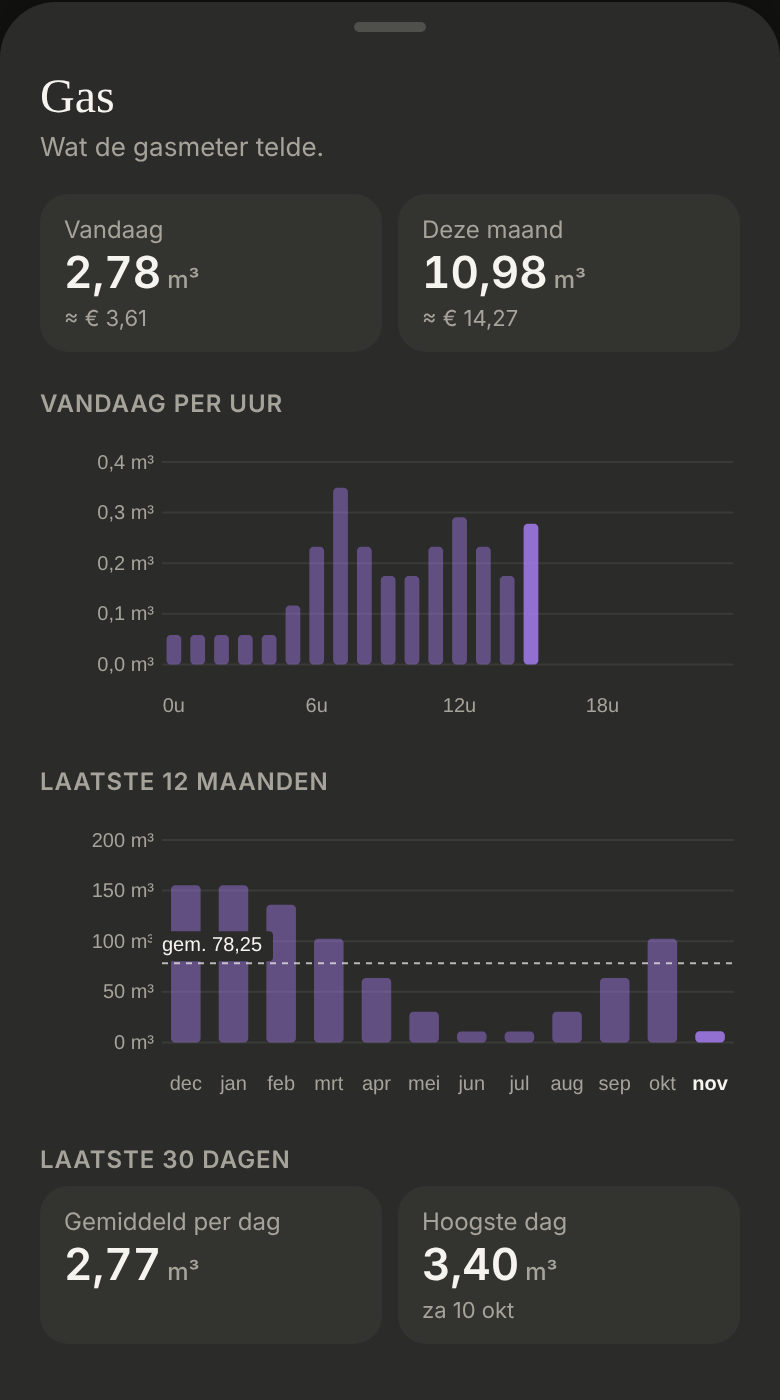
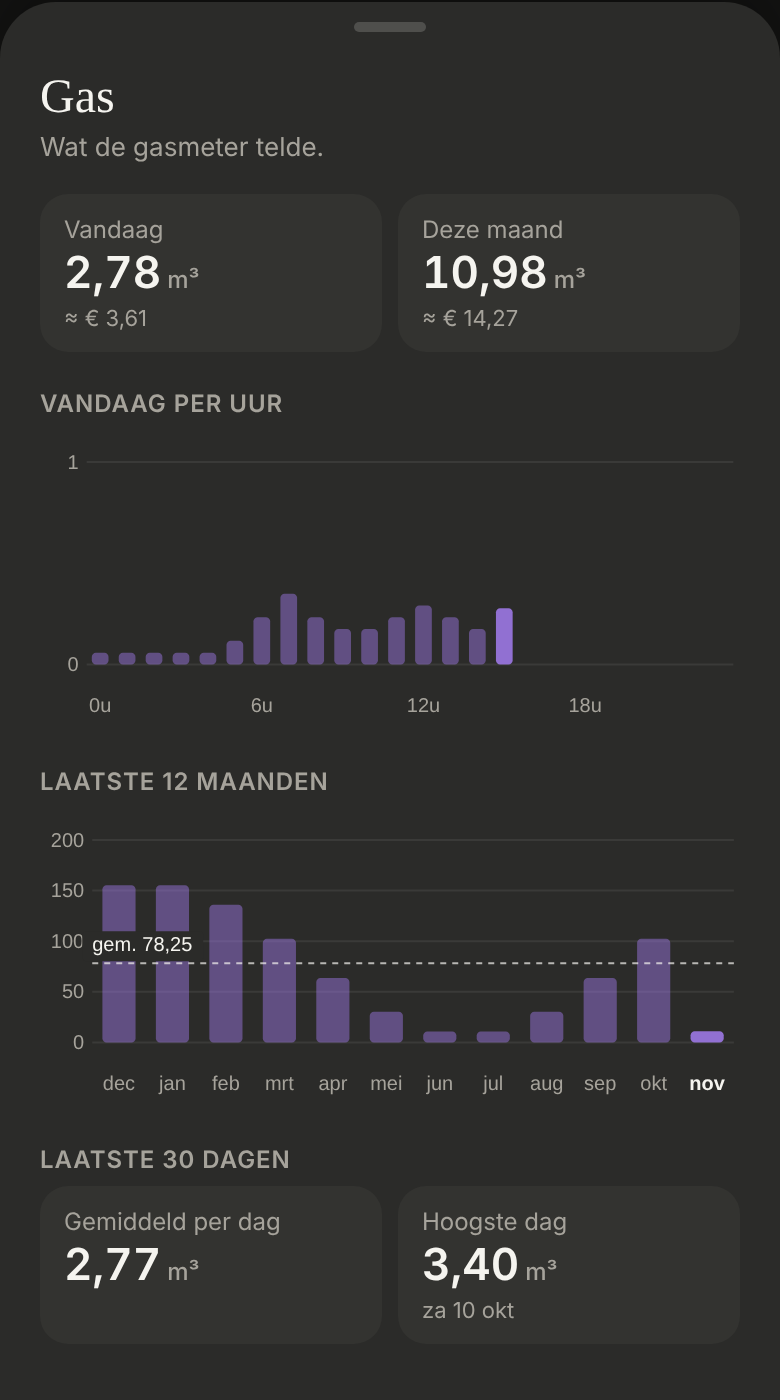
Energie: the sheets' y-axes in whole numbers, without the unit
The owner's choice: the sheet already says the unit, and decimals only
cluttered the axis. The steps are whole numbers (1, 2, 5 or 10 × a power
of ten), also in the Capaciteitstarief sheet.

Claude-Session: https://claude.ai/code/session_01KM6EwXvT22zbGn1J5Xot1E

diff --git a/src/components/energy/InfoSheet.tsx b/src/components/energy/InfoSheet.tsx
@@ -64,8 +64,6 @@ interface InfoBarChartProps {
   nowIndex?: number;
   /** A dashed line with its label, e.g. "gem. 9,59". */
   average?: { value: number; label: string };
-  /** On the y-axis's labels, e.g. "kWh". */
-  unit: string;
 }
 
 const CHART_HEIGHT = 150;
@@ -78,7 +76,7 @@ const MUTED_TEXT_COLOR = '#a6a39b';
 const SHEET_COLOR = '#2b2b29';
 
 /** A bar per hour, day or month, the one for now in the full colour and its label white. */
-export function InfoBarChart({ labels, values, color, nowIndex = values.length - 1, average, unit }: InfoBarChartProps) {
+export function InfoBarChart({ labels, values, color, nowIndex = values.length - 1, average }: InfoBarChartProps) {
   const barColors = values.map((_value, barIndex) => (barIndex === nowIndex ? color : `${color}${EARLIER_BAR_OPACITY_HEX}`));
   const labelColors = labels.map((_label, barIndex) => (barIndex === nowIndex ? TEXT_COLOR : MUTED_TEXT_COLOR));
   const knownValues = values.filter((value) => value !== null);
@@ -107,7 +105,7 @@ export function InfoBarChart({ labels, values, color, nowIndex = values.length -
       axisTicks: { show: false },
       labels: { rotate: 0, hideOverlappingLabels: false, style: { colors: labelColors, fontSize: '10px' } },
     },
-    yaxis: axisOptions(axis, unit),
+    yaxis: axisOptions(axis),
     annotations: {
       yaxis: average
         ? [
@@ -140,37 +138,34 @@ export function InfoBarChart({ labels, values, color, nowIndex = values.length -
 export interface RoundAxis {
   max: number;
   steps: number;
-  decimals: number;
 }
 
 /**
- * A y-axis from 0 to just above `highestValue`, in about 4 round steps (1, 2,
- * 2,5 or 5 times a power of ten), with as many decimals as the step needs.
+ * A y-axis from 0 to just above `highestValue`, in about 4 round steps of
+ * whole numbers (1, 2, 5 or 10 times a power of ten), so the labels need no
+ * decimals.
  */
-export function roundAxis(highestValue: number, decimals?: number): RoundAxis {
-  const roughStep = (highestValue || 1) / AXIS_STEPS;
+export function roundAxis(highestValue: number): RoundAxis {
+  const roughStep = Math.max(1, (highestValue || 1) / AXIS_STEPS);
   const powerOfTen = 10 ** Math.floor(Math.log10(roughStep));
-  const roundStep = [1, 2, 2.5, 5, 10].map((factor) => factor * powerOfTen).find((step) => step >= roughStep) ?? 10 * powerOfTen;
-  const steps = Math.ceil((highestValue || 1) / roundStep);
-  const decimalsOfStep = Math.max(0, -Math.floor(Math.log10(roundStep) + 1e-9) + (roundStep / powerOfTen === 2.5 ? 1 : 0));
+  const roundStep = [1, 2, 5, 10].map((factor) => factor * powerOfTen).find((step) => step >= roughStep) ?? 10 * powerOfTen;
+  const steps = Math.max(1, Math.ceil(highestValue / roundStep));
 
-  return { max: steps * roundStep, steps, decimals: decimals ?? decimalsOfStep };
+  return { max: steps * roundStep, steps };
 }
 
-/** ApexCharts' y-axis for a round axis: muted labels like "2,5 kWh" on the left. */
-export function axisOptions(axis: RoundAxis, unit: string): ApexOptions['yaxis'] {
+/** ApexCharts' y-axis for a round axis: muted whole numbers on the left, without the unit (the sheet says it). */
+export function axisOptions(axis: RoundAxis): ApexOptions['yaxis'] {
   return {
     show: true,
     min: 0,
     max: axis.max,
     tickAmount: axis.steps,
     labels: {
-      // Room for "400 kWh", and a little away from the plot, so the average's
-      // label (on the left of the plot) doesn't cover its end.
-      minWidth: 52,
+      // A little away from the plot, so the average's label (on the left of the plot) doesn't cover its end.
       offsetX: -6,
       style: { colors: MUTED_TEXT_COLOR, fontSize: '10px' },
-      formatter: (value: number) => `${readableAmount(value, axis.decimals)} ${unit}`,
+      formatter: (value: number) => readableAmount(value, 0),
     },
   };
 }

diff --git a/src/components/energy/CapacitySheet.tsx b/src/components/energy/CapacitySheet.tsx
@@ -150,8 +150,8 @@ function MonthlyPeaksChart({
     monthIndex === lastMonthIndex ? TEXT_COLOR : MUTED_TEXT_COLOR,
   );
   const highestKilowatts = Math.max(ENERGY_QUARTER.minimumKilowatts, ...monthlyPeaks.map((monthlyPeak) => monthlyPeak.kilowatts));
-  // Every number in this sheet has two decimals (the owner's choice), the axis too.
-  const axis = roundAxis(highestKilowatts * 1.1, 2);
+  // The axis in whole kW, without the unit (the owner's choice); the other numbers in this sheet have two decimals.
+  const axis = roundAxis(highestKilowatts * 1.1);
 
   const options: ApexOptions = {
     chart: {
@@ -181,7 +181,7 @@ function MonthlyPeaksChart({
       axisTicks: { show: false },
       labels: { style: { colors: labelColors, fontSize: '10px' } },
     },
-    yaxis: axisOptions(axis, 'kW'),
+    yaxis: axisOptions(axis),
     annotations: {
       yaxis: [
         // The band up to the minimum: a peak below it still counts as the minimum.

diff --git a/src/components/energy/MeterSheet.tsx b/src/components/energy/MeterSheet.tsx
@@ -111,7 +111,7 @@ export function MeterSheet(props: Props) {
 
       {hasHours && (
         <InfoSection heading="Vandaag per uur">
-          <InfoBarChart labels={hourLabels()} values={hourlyTotals} color={color} nowIndex={new Date().getHours()} unit={unit} />
+          <InfoBarChart labels={hourLabels()} values={hourlyTotals} color={color} nowIndex={new Date().getHours()} />
         </InfoSection>
       )}
 
@@ -121,7 +121,6 @@ export function MeterSheet(props: Props) {
             labels={monthStarts.map(monthName)}
             values={monthlyTotals}
             color={color}
-            unit={unit}
             average={averageEarlierMonth === undefined ? undefined : { value: averageEarlierMonth, label: `gem. ${readable(averageEarlierMonth)}` }}
           />
         </InfoSection>

diff --git a/docs/design/energie-capaciteit/README.md b/docs/design/energie-capaciteit/README.md
@@ -18,7 +18,7 @@ Every quarter-hour the meter measures the average power. The highest quarter-hou
 
 ## The sheet
 
-All numbers with **two decimals** (the owner's choice), except the days.
+All numbers with **two decimals** (the owner's choice), except the days and the chart's y-axis (whole numbers, no unit).
 
 - **Title** "Capaciteitstarief" (serif, 24px), "Je hoogste kwartier per maand, het laatste jaar."
 - **Two figures:** "Gemiddelde 12 maanden" (kW) and "Je betaalt nu per maand" (≈ €).
@@ -32,7 +32,7 @@ All numbers with **two decimals** (the owner's choice), except the days.
 - **The earlier 11 months:** HA's daily long-term statistics (`max`) of `sensor.p1_monthly_peak`, a copy of the peak sensor with a state class (below), fetched again every 5 minutes. Per month the **last day with statistics**: the peak only rises within a month, so that's the month's peak. Not the month's own maximum: if the meter resets a few minutes after midnight on the 1st, the new month's first minutes still hold the previous month's peak. **A month without statistics counts as 3,5 kW** (`ENERGY_QUARTER.assumedPeakWattsForMissingMonth`), the owner's choice to keep it simple; it isn't shown any differently. HA keeps long-term statistics forever (one row per hour).
 - **This month:** the sensor's state.
 - **When the peak was reached:** HA's history of the same sensor this month, the first moment of its current value. HA keeps history about 10 days, so for an older peak there's no time. Whether the meter updates the peak during the quarter-hour or at its end isn't checked: at its end, the shown quarter-hour would be one too late.
-- **The chart:** a y-axis in kW with two decimals ("2,00 kW", like every number in this sheet) and faint lines at each step, as in the other sheets (`roundAxis`, `axisOptions`). ApexCharts keeps 30px free above the plot; `grid.padding.top: -14` takes part of it away, so the top label still fits.
+- **The chart:** a y-axis in whole kW without the unit ("0 2 4 6", the owner's choice; the other numbers keep two decimals) and faint lines at each step, as in the other sheets (`roundAxis`, `axisOptions`). ApexCharts keeps 30px free above the plot; `grid.padding.top: -14` takes part of it away, so the top label still fits.
 
 ## The template helper (made in HA's app)
 

diff --git a/docs/design/energie-sheets/README.md b/docs/design/energie-sheets/README.md
@@ -22,7 +22,7 @@ A tap anywhere on the day tile (`DayTile`'s `onOpen`). A small "›" right after
 - **Vandaag per uur:** 24 bars from midnight (hourly statistics, `change`); the current hour, which HA has no statistics for yet, is today so far minus the hours before it, in the full colour. Labels under 0u, 6u, 12u and 18u.
 - **Laatste 12 maanden:** 11 months from the monthly statistics plus this month so far, with the average of the earlier months as a dashed line. (A line "November loopt nog; vorig jaar …" under it was removed at the owner's request.)
 - **Laatste 30 dagen:** the average day and the highest day, with its date.
-- **Every chart in a sheet has a y-axis** (4 November, the owner's request: only in the sheets, not on the tiles): 0 to just above the highest bar in about 4 round steps (`roundAxis`: 1, 2, 2,5 or 5 × a power of ten), muted labels with the unit ("2,5 kWh", "300 kWh") and faint horizontal lines at each step (`axisOptions`, shared with the Capaciteitstarief sheet). The labels sit a little left of the plot, so the average's label doesn't cover them.
+- **Every chart in a sheet has a y-axis** (4 November, the owner's request: only in the sheets, not on the tiles): 0 to just above the highest bar in about 4 round steps of whole numbers (`roundAxis`: 1, 2, 5 or 10 × a power of ten), muted labels **without unit and without decimals** (the owner's choice: the sheet already says the unit), and faint horizontal lines at each step (`axisOptions`, shared with the Capaciteitstarief sheet). The labels sit a little left of the plot, so the average's label doesn't cover them.
 - A section that has no statistics yet is left out.
 
 ## Per sheet
